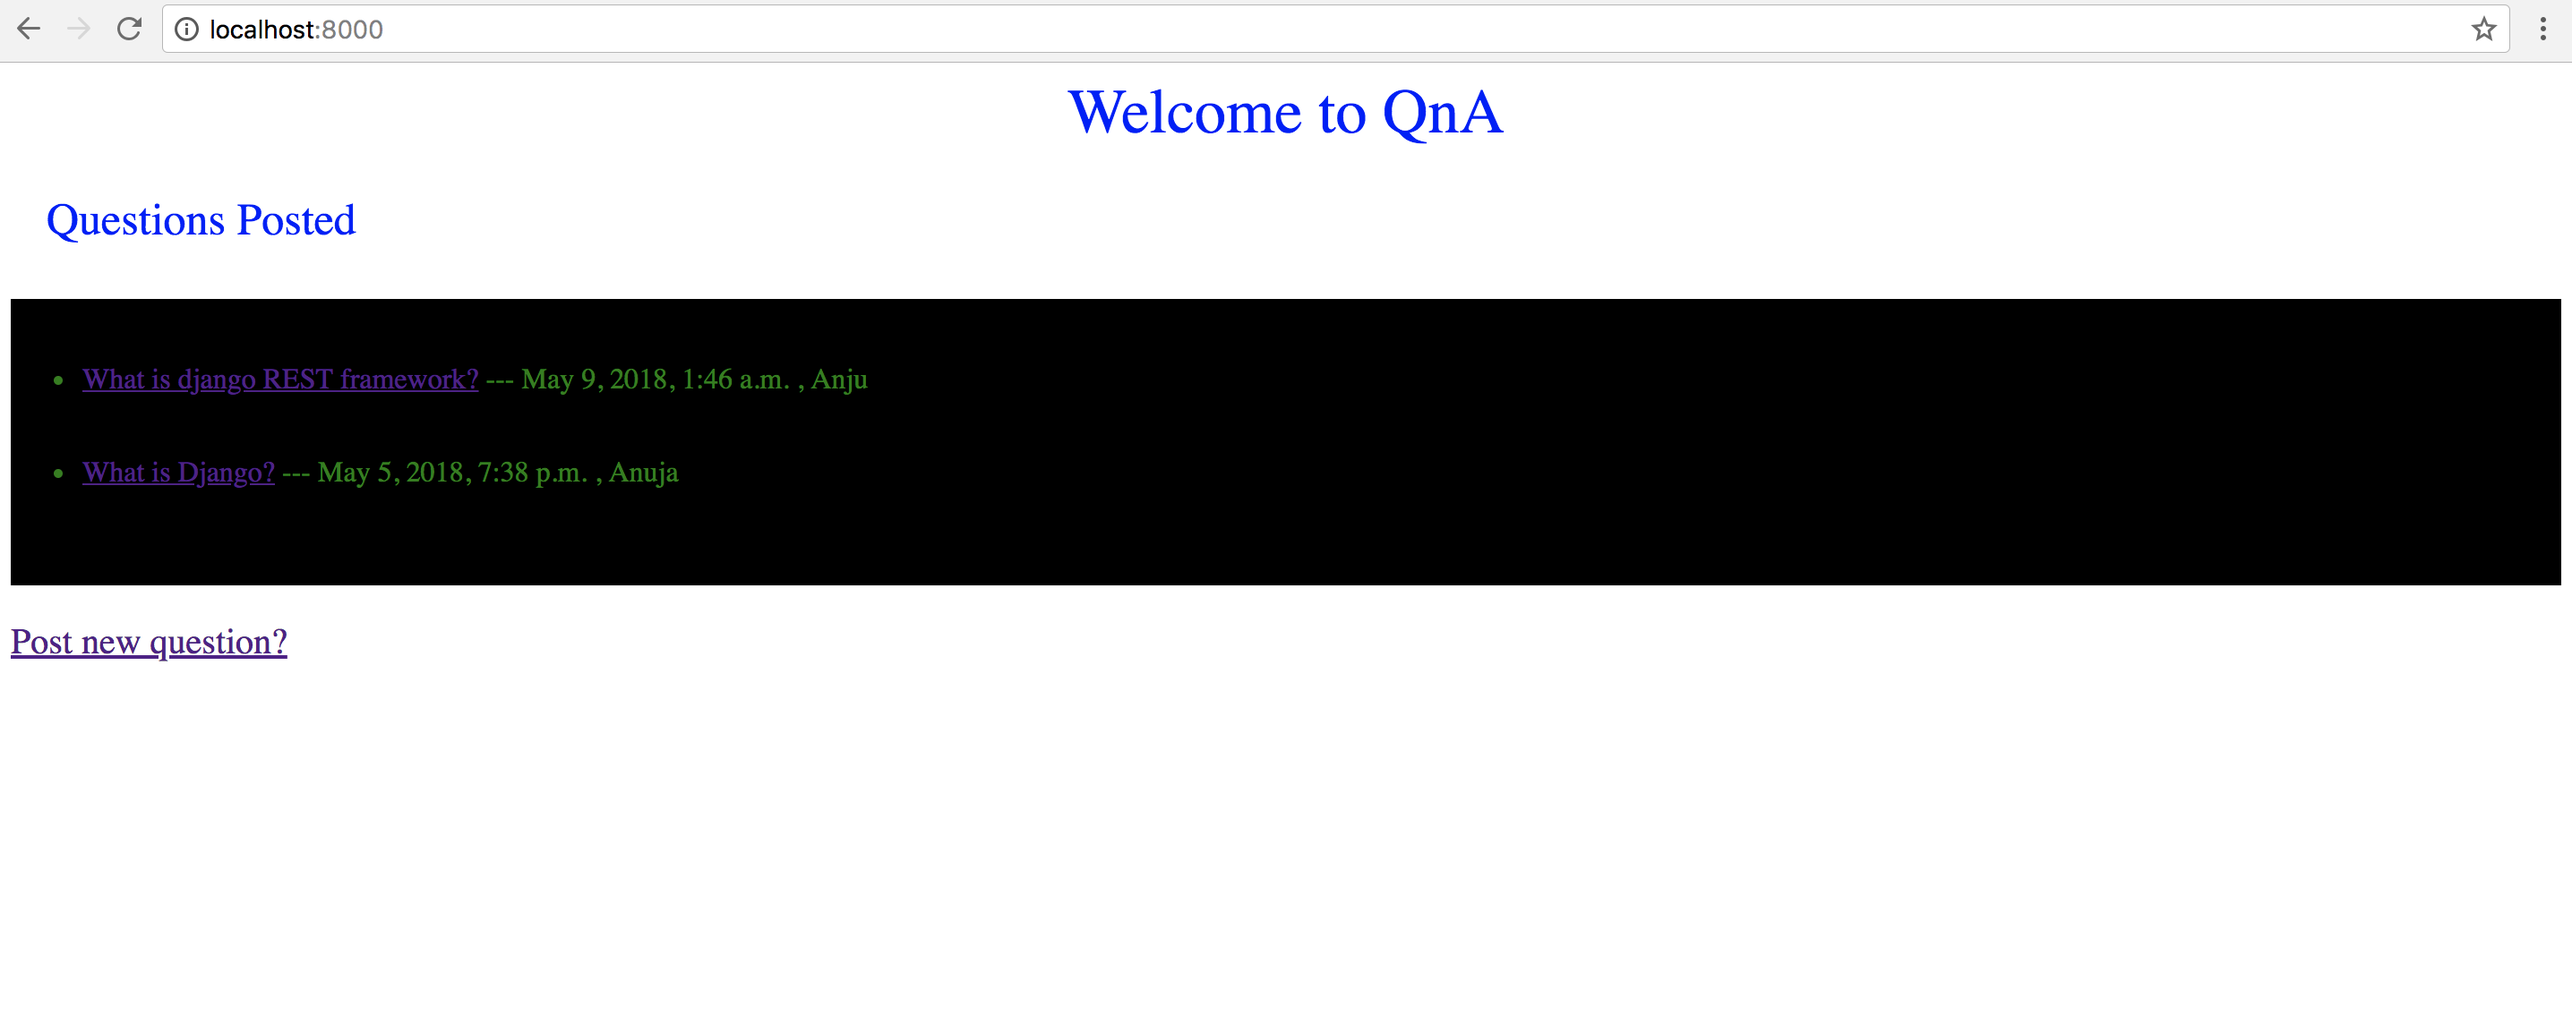
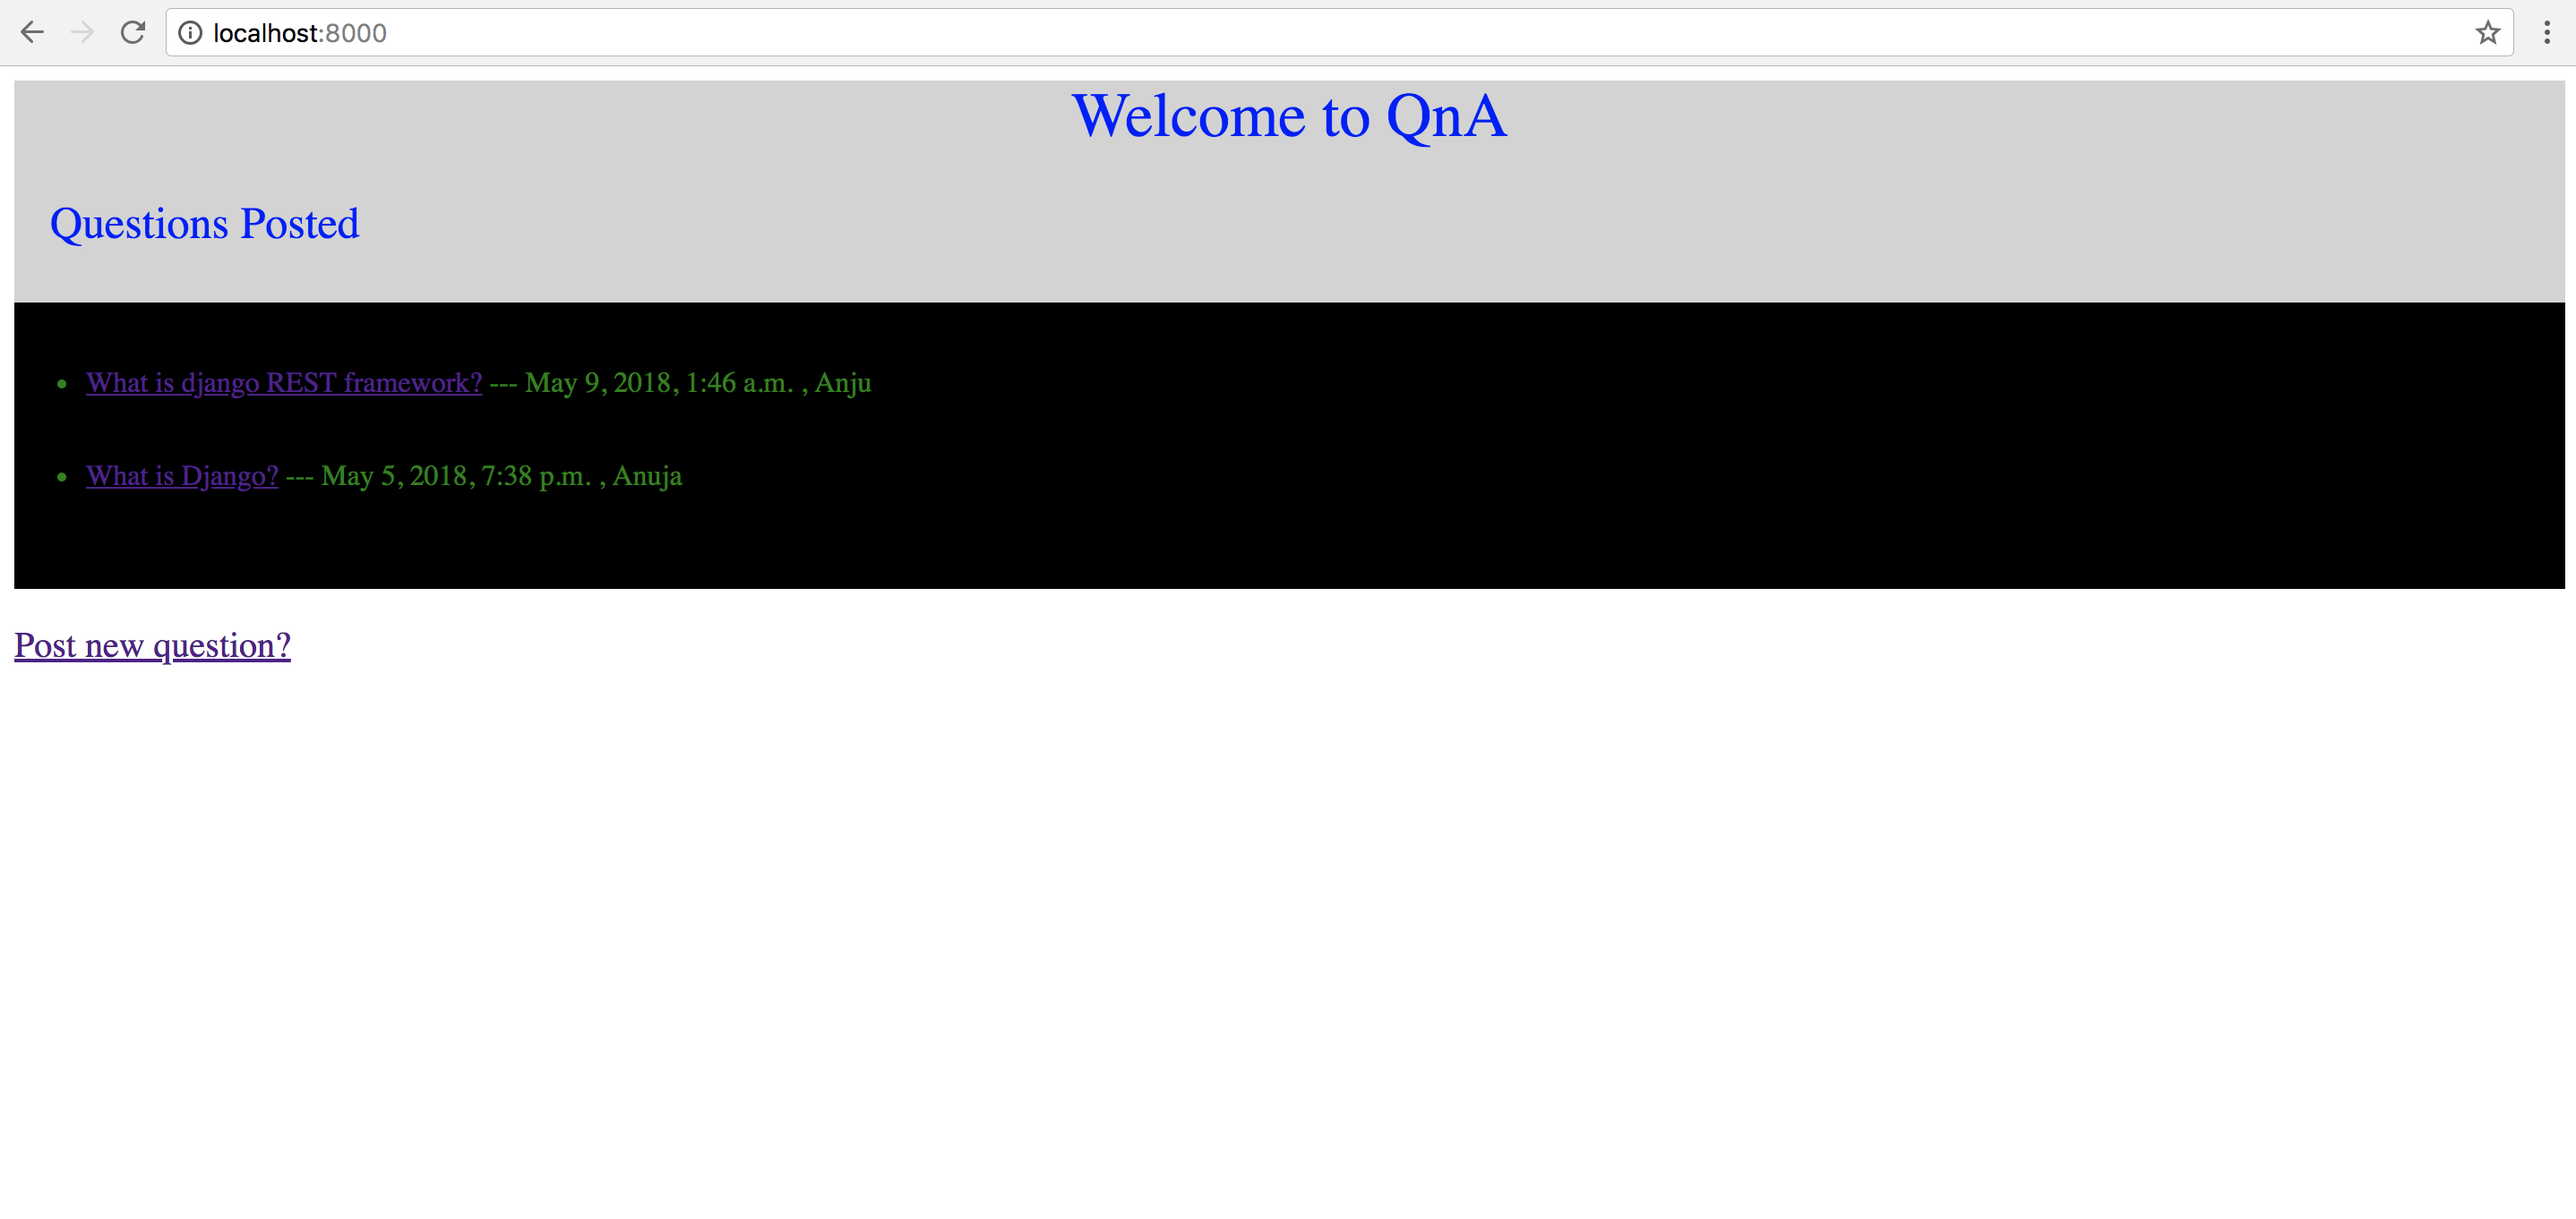
Added screenshots

diff --git a/askit/templates/askit/index.html b/askit/templates/askit/index.html
@@ -1,7 +1,7 @@
 {% load static %}
 <link rel="stylesheet" type="text/css" href="{% static 'askit/style.css' %}" />
 
-<div class="main-container">
+<div class="container">
 	<div class="header">Welcome to QnA</div>
 	<div class="sub-header">Questions Posted</div>
 </div>
